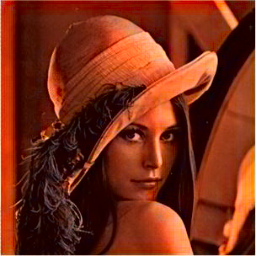
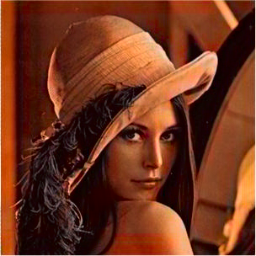
Models Repaired

diff --git a/Gamma/train.py b/Gamma/train.py
@@ -1,7 +1,12 @@
 from keras.layers import Conv2D, UpSampling2D
-from keras.layers import InputLayer
-from keras.models import Sequential
-from skimage.color import rgb2lab
+from skimage.color import rgb2lab, lab2rgb
+from keras.applications.inception_resnet_v2 import preprocess_input
+from keras.applications.inception_resnet_v2 import InceptionResNetV2
+from keras.layers import Input, Reshape, concatenate
+from keras.models import Model
+from keras.layers.core import RepeatVector
+from skimage.transform import resize
+import tensorflow as tf
 import numpy as np
 import os
 import cv2
@@ -20,27 +25,55 @@ Xtrain = Xtrain.reshape(1, 256, 256, 1)
 Ytrain = Ytrain.reshape(1, 256, 256, 2)
 Ytrain /= 128 
 
-# Building the neural network
-model = Sequential()
-model.add(InputLayer(input_shape=(256, 256, 1)))
-model.add(Conv2D(8, (3, 3), activation='relu', padding='same', strides=2))
-model.add(Conv2D(8, (3, 3), activation='relu', padding='same'))
-model.add(Conv2D(16, (3, 3), activation='relu', padding='same'))
-model.add(Conv2D(16, (3, 3), activation='relu', padding='same', strides=2))
-model.add(Conv2D(32, (3, 3), activation='relu', padding='same'))
-model.add(Conv2D(32, (3, 3), activation='relu', padding='same', strides=2))
-model.add(UpSampling2D((2, 2)))
-model.add(Conv2D(32, (3, 3), activation='relu', padding='same'))
-model.add(UpSampling2D((2, 2)))
-model.add(Conv2D(16, (3, 3), activation='relu', padding='same'))
-model.add(UpSampling2D((2, 2)))
-model.add(Conv2D(2, (3, 3), activation='tanh', padding='same'))
+#Load weights
+inception = InceptionResNetV2(weights='imagenet', include_top=True)
+inception.graph = tf.get_default_graph()
 
-# Finish model
-model.compile(optimizer='rmsprop',loss='mse')
+#Encoder
+encoder_input = Input(shape=(256, 256, 1,))
+encoder_output = Conv2D(64, (3,3), activation='relu', padding='same', strides=2)(encoder_input)
+encoder_output = Conv2D(128, (3,3), activation='relu', padding='same')(encoder_output)
+encoder_output = Conv2D(128, (3,3), activation='relu', padding='same', strides=2)(encoder_output)
+encoder_output = Conv2D(256, (3,3), activation='relu', padding='same')(encoder_output)
+encoder_output = Conv2D(256, (3,3), activation='relu', padding='same', strides=2)(encoder_output)
+encoder_output = Conv2D(512, (3,3), activation='relu', padding='same')(encoder_output)
+encoder_output = Conv2D(512, (3,3), activation='relu', padding='same')(encoder_output)
+encoder_output = Conv2D(256, (3,3), activation='relu', padding='same')(encoder_output)
+
+#Fusion
+embed_input = Input(shape=(1000,))
+fusion_output = RepeatVector(32 * 32)(embed_input) 
+fusion_output = Reshape(([32, 32, 1000]))(fusion_output)
+fusion_output = concatenate([encoder_output, fusion_output], axis=3) 
+fusion_output = Conv2D(256, (1, 1), activation='relu', padding='same')(fusion_output) 
+
+#Decoder
+decoder_output = Conv2D(128, (3,3), activation='relu', padding='same')(fusion_output)
+decoder_output = UpSampling2D((2, 2))(decoder_output)
+decoder_output = Conv2D(64, (3,3), activation='relu', padding='same')(decoder_output)
+decoder_output = UpSampling2D((2, 2))(decoder_output)
+decoder_output = Conv2D(32, (3,3), activation='relu', padding='same')(decoder_output)
+decoder_output = Conv2D(16, (3,3), activation='relu', padding='same')(decoder_output)
+decoder_output = Conv2D(2, (3, 3), activation='tanh', padding='same')(decoder_output)
+decoder_output = UpSampling2D((2, 2))(decoder_output)
+
+model = Model(inputs=[encoder_input, embed_input], outputs=decoder_output)
         
-# Train model      
-model.fit(x=Xtrain, y=Ytrain, epochs=100, batch_size=1)
+def create_inception_embedding(grayscaled_rgb):
+    grayscaled_rgb_resized = []
+    for i in grayscaled_rgb:
+        i = resize(i, (299, 299, 3), mode='constant')
+        i = lab2rgb(i)
+        grayscaled_rgb_resized.append(i)
+    grayscaled_rgb_resized = np.array(grayscaled_rgb_resized)
+    grayscaled_rgb_resized = preprocess_input(grayscaled_rgb_resized)
+    with inception.graph.as_default():
+        embed = inception.predict(grayscaled_rgb_resized)
+    return embed
+
+# Train model
+model.compile(optimizer='adam',loss='mse')
+model.fit(x=[Xtrain, create_inception_embedding(Xtrain)], y=Ytrain, epochs=100, batch_size=1)
 
 #Save model
 model.save('model.h5')

diff --git a/Beta/train.py b/Beta/train.py
@@ -20,26 +20,27 @@ Xtrain = Xtrain.reshape(1, 256, 256, 1)
 Ytrain = Ytrain.reshape(1, 256, 256, 2)
 Ytrain /= 128 
 
-# Building the neural network
+#Design the neural network
 model = Sequential()
 model.add(InputLayer(input_shape=(256, 256, 1)))
-model.add(Conv2D(8, (3, 3), activation='relu', padding='same', strides=2))
-model.add(Conv2D(8, (3, 3), activation='relu', padding='same'))
-model.add(Conv2D(16, (3, 3), activation='relu', padding='same'))
-model.add(Conv2D(16, (3, 3), activation='relu', padding='same', strides=2))
-model.add(Conv2D(32, (3, 3), activation='relu', padding='same'))
-model.add(Conv2D(32, (3, 3), activation='relu', padding='same', strides=2))
+model.add(Conv2D(64, (3, 3), activation='relu', padding='same'))
+model.add(Conv2D(64, (3, 3), activation='relu', padding='same', strides=2))
+model.add(Conv2D(128, (3, 3), activation='relu', padding='same'))
+model.add(Conv2D(128, (3, 3), activation='relu', padding='same', strides=2))
+model.add(Conv2D(256, (3, 3), activation='relu', padding='same'))
+model.add(Conv2D(256, (3, 3), activation='relu', padding='same', strides=2))
+model.add(Conv2D(512, (3, 3), activation='relu', padding='same'))
+model.add(Conv2D(256, (3, 3), activation='relu', padding='same'))
+model.add(Conv2D(128, (3, 3), activation='relu', padding='same'))
+model.add(UpSampling2D((2, 2)))
+model.add(Conv2D(64, (3, 3), activation='relu', padding='same'))
 model.add(UpSampling2D((2, 2)))
 model.add(Conv2D(32, (3, 3), activation='relu', padding='same'))
-model.add(UpSampling2D((2, 2)))
-model.add(Conv2D(16, (3, 3), activation='relu', padding='same'))
-model.add(UpSampling2D((2, 2)))
 model.add(Conv2D(2, (3, 3), activation='tanh', padding='same'))
-
-# Finish model
-model.compile(optimizer='rmsprop',loss='mse')
+model.add(UpSampling2D((2, 2)))
         
-# Train model      
+# Train model
+model.compile(optimizer='adam',loss='mse')
 model.fit(x=Xtrain, y=Ytrain, epochs=100, batch_size=1)
 
 #Save model

diff --git a/Alpha/train.py b/Alpha/train.py
@@ -37,7 +37,7 @@ model.add(UpSampling2D((2, 2)))
 model.add(Conv2D(2, (3, 3), activation='tanh', padding='same'))
 
 # Finish model
-model.compile(optimizer='rmsprop',loss='mse')
+model.compile(optimizer='adam',loss='mse')
         
 # Train model      
 model.fit(x=Xtrain, y=Ytrain, epochs=100, batch_size=1)
